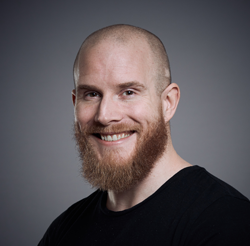
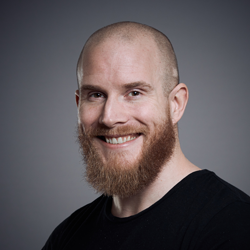
fixed cloudinary

diff --git a/src/pages/portfolio/mrgreen/index.html b/src/pages/portfolio/mrgreen/index.html
@@ -59,7 +59,10 @@ description: Micke Alm UX portfolio case study of Mr Greens swedish deposit limi
 					<p>From there I started prototyping.</p>
 				</div>
 				<div class="col-xs-12 col-md-auto text-center">
-					<img src="images/limits-old.png" loading="lazy" class="portfolio-mo-image mb-3" alt="Old limits flow" />
+						<picture alt="Old limits flow" class="portfolio-mo-image mb-3">
+							<source srcset="https://res.cloudinary.com/dykby9bas/image/upload/f_auto/v1570609410/limits-old_dqn7az.webp" loading="lazy" type="image/webp">
+							<img src="https://res.cloudinary.com/dykby9bas/image/upload/f_auto/v1570609410/limits-old_dqn7az.png" loading="lazy" />
+						</picture>
 					<p class="text-center text-small">Existing implementation</p>
 				</div>
 			</div>
@@ -71,7 +74,7 @@ description: Micke Alm UX portfolio case study of Mr Greens swedish deposit limi
 			<div class="row">
 				<div class="col-xs-12 col-md-auto text-center order-2 order-md-1">
 					<div class="phone portfolio-mo-image mt">
-						<video class="portfolio-video" muted loop playsinline>
+						<video class="portfolio-video" muted loop playsinline poster="https://res.cloudinary.com/dykby9bas/image/upload/v1570624393/limits_rhyumu.png">
 							<source src="https://res.cloudinary.com/dykby9bas/video/upload/v1567588866/limits_jk22cy.webm" loading="lazy" width="216" height="470" type="video/webm" />
 							<source src="https://res.cloudinary.com/dykby9bas/video/upload/v1567588869/limits_nuvuom.mp4" loading="lazy" width="216" height="470" type="video/mp4" />
 						</video>
@@ -106,7 +109,10 @@ description: Micke Alm UX portfolio case study of Mr Greens swedish deposit limi
 					<p>At this point the user is most likely coming directly from having registered, and we now need to have them go through more input controls. I figured we could ‘reset’ them a little from input fatigue, by letting the information break off visually and take over the entire screen, which met with approval from the entire team and I then let that concept grow.</p>
 				</div>
 				<div class="col-xs-12 col-md-auto text-center">
-					<img src="images/onboarding-concept.png" loading="lazy" class="portfolio-mo-image mb-3" alt="The 'intermission' concept" />
+					<picture alt="Onboarding concept">
+						<source srcset="https://res.cloudinary.com/dykby9bas/image/upload/f_auto/v1570609410/onboarding-concept_v1hlf4.webp" loading="lazy" type="image/webp">
+						<img src="https://res.cloudinary.com/dykby9bas/image/upload/f_auto/v1570609410/onboarding-concept_v1hlf4.png" loading="lazy" />
+					</picture>
 					<p class="text-center text-small">The "intermission"</p>
 				</div>
 			</div>
@@ -118,7 +124,7 @@ description: Micke Alm UX portfolio case study of Mr Greens swedish deposit limi
 			<div class="row">
 				<div class="col-xs-12 col-md-auto order-2 order-md-1">
 					<div class="phone portfolio-mo-image mt">
-						<video class="portfolio-video" muted loop playsinline>
+						<video class="portfolio-video" muted loop playsinline poster="https://res.cloudinary.com/dykby9bas/image/upload/v1570624393/onboarding_gghsgu.png">
 							<source src="https://res.cloudinary.com/dykby9bas/video/upload/v1567588868/onboarding_g6nex2.webm" loading="lazy" width="216" height="470" type="video/webm">
 							<source src="https://res.cloudinary.com/dykby9bas/video/upload/v1567588867/onboarding_o52prd.mp4" loading="lazy" width="216" height="470" type="video/mp4">
 						</video>
@@ -152,7 +158,10 @@ description: Micke Alm UX portfolio case study of Mr Greens swedish deposit limi
 		<div class="container testing mb-5">
 			<div class="row">
 				<div class="col-xs-12 col-md-auto text-center">
-					<img src="images/tobii.png" alt="Usability testing" loading="lazy" class="mr-5 portfolio-mo-image portfolio-mo-image--large mt" />
+					<picture alt="Tobii eye tracking">
+						<source srcset="https://res.cloudinary.com/dykby9bas/image/upload/f_auto/v1570609410/tobii_rmj6p4.webp" loading="lazy" type="image/webp">
+						<img src="https://res.cloudinary.com/dykby9bas/image/upload/f_auto/v1570609410/tobii_rmj6p4.png" loading="lazy" />
+					</picture>
 				</div>
 				<div class="col-xs-12 col">
 					<h1>Usability testing</h1>

diff --git a/src/pages/index.html b/src/pages/index.html
@@ -10,10 +10,10 @@ title:
             <address class="card card--max-width card--right" onclick="document.location='about.html'">
                 <div class="card__logo">
                     <div class="profile-photo">
-						<picture width="250" height="250" alt="Profile photo">
-							<source srcset="https://res.cloudinary.com/dykby9bas/image/upload/f_auto/v1570609385/profile-photo_fbfocl.webp" type="image/webp">
-							<img src="https://res.cloudinary.com/dykby9bas/image/upload/f_auto/v1570609385/profile-photo_fbfocl.png" />
-						</picture>
+                        <picture width="250" height="250" alt="Profile photo">
+                            <source srcset="https://res.cloudinary.com/dykby9bas/image/upload/f_auto/v1570625685/profile-photo_a25ss1.webp" type="image/webp">
+                            <img src="https://res.cloudinary.com/dykby9bas/image/upload/f_auto/v1570625685/profile-photo_a25ss1.png" />
+                        </picture>
                     </div>
                 </div>
 

diff --git a/src/pages/about.html b/src/pages/about.html
@@ -9,7 +9,10 @@ title: Profile -
             <div class="col-xs-12 col-md-auto">
                 <address class="card">
                     <div class="profile-photo">
-                        <img src="/assets/img/profile-photo.png" width="250" height="250" alt="Profile photo" />
+                        <picture width="250" height="250" alt="Profile photo">
+                            <source srcset="https://res.cloudinary.com/dykby9bas/image/upload/f_auto/v1570625685/profile-photo_a25ss1.webp" type="image/webp">
+                            <img src="https://res.cloudinary.com/dykby9bas/image/upload/f_auto/v1570625685/profile-photo_a25ss1.png" />
+                        </picture>
                     </div>
 
                     <h1>Micke Alm</h1>

diff --git a/src/layouts/default.html b/src/layouts/default.html
@@ -10,13 +10,6 @@
     <main role="main">
         {{> body}}
     </main>
-    
-    <!-- build:js -->
-    <script src="https://cdnjs.cloudflare.com/ajax/libs/gsap/2.1.3/TweenMax.min.js"></script>
-    <script defer src="{{root}}assets/vendor/js/ScrollMagic.js"></script>
-    <script defer src="https://cdnjs.cloudflare.com/ajax/libs/ScrollMagic/2.0.7/plugins/animation.gsap.js"></script>
-    <script defer src="{{root}}assets/js/custom.js"></script>
-    <!-- endbuild --> 
 </body>
 
 </html>

diff --git a/src/assets/scss/layout/_header.scss b/src/assets/scss/layout/_header.scss
@@ -2,7 +2,6 @@
 // This file contains all styles related to the header of the site/application.
 // -----------------------------------------------------------------------------
 .navbar {
-    height: $nav-height;
     padding: 10px;
 
     .nav-logo { margin: 0 auto; }

diff --git a/src/assets/scss/pages/_home.scss b/src/assets/scss/pages/_home.scss
@@ -26,7 +26,7 @@
     &--max-width {
         cursor: pointer;
         max-width: 380px;
-        height: 430px;
+        height: 400px;
         overflow: hidden;
         width: 100%;
         position: relative;
